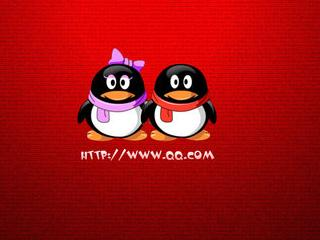
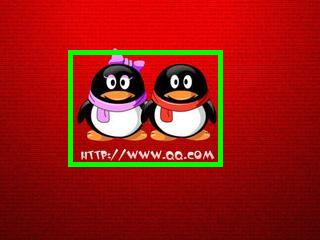
Picture toggle.

Changed region(s): [[0.1875, 0.2042, 0.7188, 0.7292]]

diff --git a/NXP/Project/USB_UVC_LPC/Src/usbuser.c b/NXP/Project/USB_UVC_LPC/Src/usbuser.c
@@ -25,14 +25,20 @@
 #include "usbuser.h"
 #include "uvcuser.h"
 
-#define _JPG_GLOBAL_
-#include "JGP_Data.h"
+#define _JPG1_GLOBAL_
+#include "JGP1_Data.h"
+
+#define _JPG2_GLOBAL_
+#include "JGP2_Data.h"
 
 volatile DWORD TestCnt;
 volatile DWORD JPG_Cnt;
 volatile DWORD Buf_Size;
 volatile DWORD PTS_Value;
 volatile DWORD SCR_Value;
+volatile DWORD JPG_size;
+const unsigned char *JPG_data;
+volatile BYTE  PicsToggle;
 BYTE SOF_Event_Buf[EP3_MAX_PACKET];
 
 /*
@@ -107,6 +113,22 @@ void USB_SOF_Event (void)
     SOF_Event_Buf[1] ^= 0x01; /* FID */
     SOF_Event_Buf[10] = 0x00; /* Reserved */
     SOF_Event_Buf[11] = 0x00; /* Reserved */
+
+    /* Pictrue Toggle */
+    if(PicsToggle == 0)
+    {
+      JPG_size   = JPG1_size;
+      JPG_data   = JPG1_data;
+      PicsToggle = 1;
+      TestCnt    = 0;
+    }
+    else
+    {
+      JPG_size   = JPG2_size;
+      JPG_data   = JPG2_data;
+      PicsToggle = 0;
+      TestCnt    = 1;
+    }
   }
   else
   {
@@ -373,7 +395,6 @@ void Write_To_Buf(void)
     memcpy((void *)(SOF_Event_Buf + PAYLOAD_HEADER_SIZE),(const void *)(JPG_data + JPG_Cnt),JPG_size - JPG_Cnt);
     JPG_Cnt = 0;
     Buf_Size = JPG_size - JPG_Cnt + PAYLOAD_HEADER_SIZE;
-    TestCnt++;
   }
 }
 

diff --git a/NXP/Project/USB_UVC_LPC/Inc/usbuser.h b/NXP/Project/USB_UVC_LPC/Inc/usbuser.h
@@ -77,6 +77,9 @@ extern volatile DWORD JPG_Cnt;
 extern volatile DWORD Buf_Size;
 extern volatile DWORD PTS_Value;
 extern volatile DWORD SCR_Value;
+extern volatile DWORD JPG_size;
+extern const unsigned char *JPG_data;
+extern volatile BYTE  PicsToggle;
 extern          BYTE SOF_Event_Buf[EP3_MAX_PACKET];
 
 #endif  /* __USBUSER_H__ */

diff --git a/NXP/Project/USB_UVC_LPC/Src/uvcdemo.c b/NXP/Project/USB_UVC_LPC/Src/uvcdemo.c
@@ -48,6 +48,7 @@ int main (void) {
   TestCnt = 0;
   JPG_Cnt = 0;
   PTS_Value = 0;
+  PicsToggle = 0;
   UART_Init(_UART_USED,115200);
   printf("\r\n#######################################");
   printf("\r\n# USB Video demo");
